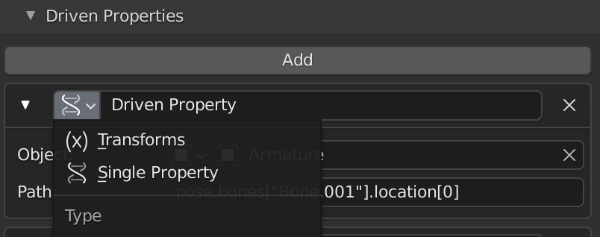
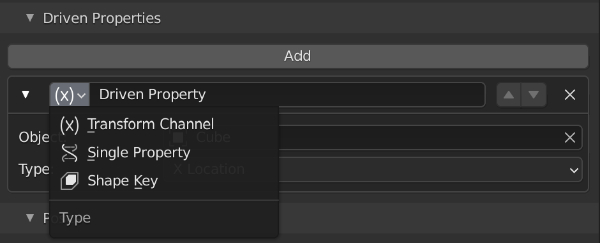
1.1.0

diff --git a/docs/user-guide/managing-drivers.md b/docs/user-guide/managing-drivers.md
@@ -6,13 +6,25 @@ The user interface for RBF Drivers is situated under the **Bone properties** tab
 !!! Note
     Each RBF driver is associated with a pose bone which acts as the driver, unlike Blender's
     normal drivers, where you associate a driver with a driven property. This is due to the
-    fact that a single RBF driver normally drives multiple driven properties.
+    fact that a single RBF driver can handle multiple driven properties.
+
+<p style="text-align:center"><img src="../../img/drivers_panel_a.jpg" alt="Empty drivers panel"/></p>
 
 If you haven't yet created any RBF drivers for the active pose bone, the RBF Drivers panel
 will simply display a button to add your first RBF driver.
 
-<p style="text-align:center"><img src="../../img/drivers_panel_a.jpg" alt="Empty drivers panel"/></p>
+<p style="text-align:center"><img src="../../img/drivers_panel_adddriver.jpg" alt="Add driver button"/></p>
 
+Clicking the button will bring up a menu where you can choose to either add a new driver, or
+if you have previously copied a driver to the copy/paste buffer, paste a copy of that driver into
+the list. There is also an option to "Paste Symmetrical" which you can use to paste a mirrored copy
+of the driver (see the section on [x-mirroring](../using-x-mirror) for further details)
+
+!!! Note
+    RBF Drivers are compatible with Blender's x-mirror option for armatures. If you want to create
+    and edit matching drivers for both sides of your rig, you should have x-mirror enabled while
+    doing so. More information on handling mirrored RBF drivers is available
+    [here](../using-x-mirror).
 ___________________________________________________________________________________________________
 
 ## The Drivers List
@@ -50,14 +62,41 @@ checking the box in the list.
 
 ___________________________________________________________________________________________________
 
+## Copying/Pasting Drivers
+
+<p style="text-align:center"><img src="../../img/drivers_panel_copyhlt.jpg" alt="Driver copy button"/></p>
+
+The copy button will copy the currently selected RBF driver into the copy/paste buffer, from which
+it can be pasted onto other bones.
+
+Once copied, you can paste a driver onto another bone by clicking on the **+** button in that
+bone's RBF Drivers panel and selecting either "Paste" or "Paste Symmetrical". In the former case
+the driver and all its settings, inputs, driven properties and poses will be copied directly to
+the new driver. When using "Paste Symmetrical", driven properties that transform bones named using
+any of Blender's standard left/right suffixes (.L, .R, .LEFT, .RIGHT, etc.) will be set to drive
+the corresponding bone on the opposite side of the armature.
+
+!!! Note
+    The "Paste Symmetrical" operator will only switch the suffix for bones on
+    [Transform Channels](../driven-properties#transform-channel). Data paths that you have defined
+    for [Single Properties](../driven-properties#single-property) are left unchanged, whether or
+    not they target a pose bone.
+
+    The operation will also not attempt to adjust pose values, so in cases where the
+    orientation of the bone on one side of the armature does not correspond to that of the bone on
+    the other side you may find that things move or rotate in the wrong direction and will need to
+    make adjustments accordingly.
+
+
+___________________________________________________________________________________________________
+
 ## Rebuilding Drivers
 
 <p style="text-align:center"><img src="../../img/drivers_panel_updatehlt.jpg" alt="Driver update button"/></p>
 
-To the right of the driver's list, the middle button is used to manually recalculate the RBF
-driver. Under normal circumstances you will not need to use this, since the RBF driver will
-automatically recalculate things in the background as you make changes. Nevertheless, because
-RBF drivers are built on Blender's native tools (drivers and custom properties) you are free
-to edit or delete them. This is strongly advised against unless you are sure you know what you
-are doing, but if you do so, whether intentionally or accidentally, you can use this button to
-force the RBF driver to recalculate itself.
+The update button is used to manually recalculate the RBF driver. Under normal circumstances you
+will not need to use this, since the RBF driver will automatically recalculate things in the
+background as you make changes. Nevertheless, because RBF drivers are built on Blender's native
+tools (drivers and custom properties) you are free to edit or delete them. This is strongly advised
+against unless you are sure you know what you are doing, but if you do so, whether intentionally or
+accidentally, you can use this button to force the RBF driver to recalculate itself.

diff --git a/docs/user-guide/driven-properties.md b/docs/user-guide/driven-properties.md
@@ -13,8 +13,9 @@ ________________________________________________________________________________
 
 <p style="text-align:center"><img src="../../img/drivenprop_type.jpg" alt="Driven property types"/></p>
 
-You can select from either **Single Property**, **Transform Channel** or **Shape Key**.
-You can also provide a useful name for the property to help you keep track of things.
+You can select from either **Single Property**, **Transform Channel** or **Shape Key**, depending
+on what type of property you wish to drive. You can also provide a useful name for the property and
+move it up or down within the stack to help you keep track of things.
 
 ### Single Property
 
@@ -29,6 +30,13 @@ context menu.
 If the data path is incorrect, or the property cannot be driven, the path will be highlighted in
 red.
 
+!!! Note
+    When using the **Copy Data Path** option from the context menu, the data path that is copied to
+    the clipboard will not include the array index for array-like Blender properties. It is
+    sometimes necessary to append it to the path yourself. For example, if you wanted to drive the
+    delta location x of an object, the data path given by Blender will be 'delta_location', whereas
+    you will want to set the driven property's data path to 'delta_transform[0]'
+
 ### Transform Channel
 
 <p style="text-align:center"><img src="../../img/drivenprop_xformchan.jpg" alt="Driven property transform channel type"/></p>
@@ -40,7 +48,7 @@ is selected the transform channel on the object itself will be driven.
 !!! Note
     **Transform Channel** properties are really just a convenience. Driving the X Location channel
     of an object is entirely equivalent to creating a **Single Property** for the "location[0]"
-    path. 
+    path.
 
 !!! Note
     Unlike [inputs](../inputs#rotation-modes), the rotation modes available for driving
@@ -49,3 +57,17 @@ is selected the transform channel on the object itself will be driven.
     driven property should almost always correspond to the rotatation mode of the object or bone
     being driven. When you select an object or bone, the correct rotation mode will be set for you
     automatically.
+
+### Shape Key
+
+<p style="text-align:center"><img src="../../img/drivenprop_shapekey.jpg" alt="Driven property shape key channel type"/></p>
+
+Selecting **Shape Key** from the dropdown menu allows you can set a mesh object and choose from
+the shape keys defined for that mesh. If you have a valid shape key selected, you can also adjust
+the value of the shape key directly from the driven property pane so you don't have to switch back
+and forth between the rig and mesh while setting [poses](../poses).
+
+!!! Note
+    It is preferred to use a driven **Shape Key** property rather than manually adding the path for
+    the shape key's value to a **Single Property**. While the latter will correctly drive the value,
+    the shape key's value property will not show as being driven in the UI (highlighted in purple).

diff --git a/docs/user-guide/faq.md b/docs/user-guide/faq.md
@@ -64,9 +64,8 @@ be used sparingly.
 Because RBF driver consolidates everything down to native Blender drivers, it needs to fit certain
 calculations into driver expressions, which are limited within Blender to having a maximum length
 of 256 characters. RBF Drivers do their very best to pack as much as possible into an expression
-by reducing floating-point precision (according to your [settings](../rbf-settings)) and
-storing values in properties and referencing them with variables where necessary. Nevertheless,
-eventually these expressions can grow beyond the aforementioned limits, in the unlikely event that
+by storing values in properties and referencing them with variables where necessary. Nevertheless,
+eventually these expressions can grow beyond the aforementioned limits. In the unlikely event that
 this happens the RBF driver will fail to update and you will be notified that an expression is too
 long. In this case you will need to reduce the number of poses and update again. This being said,
 part of the beauty of RBF drivers is that you rarely need more than a few poses to achieve a great
@@ -80,7 +79,7 @@ ________________________________________________________________________________
 
 The primary use-cases for RBF drivers are in rigging and character animation. Although other uses
 are possible, they can invariably be supported simply by creating a bone where you might otherwise
-use an empty, or giving the object an armature.
+use an empty, or parenting an object to a bone.
 
 ### Why can I only use transform properties as inputs?
 

diff --git a/docs/user-guide/using-x-mirror.md b/docs/user-guide/using-x-mirror.md
@@ -1,0 +1,29 @@
+# Using X-Mirror
+
+!!! Caution
+    X-mirroring only works while x-mirror is enabled for the armature you are working on. If you
+    want an RBF driver to be mirrored, make sure you enable it before creating the RBF driver, and
+    always have it enabled while editing the RBF driver. If you have already created a driver that
+    you want to mirror to the other side of the armature, you can use the
+    [**Paste Symmetrical** option from the **Add Driver** menu](../managing-drivers#copying-pasting-drivers)
+
+RBF Drivers have full support for Blender's x-mirror option built in, and there's nothing extra
+you have to do to get it to work, other than enable x-mirror for the armature. You'll find a
+list below of what you can expect to be automatically mirrored for RBF Drivers.
+
+* Addition/Removal of RBF drivers
+* The RBF driver's name
+* RBF settings
+* Input properties and rotation modes
+* Addition/Removal of driven properties
+* Driven property names
+* Driven property types and settings
+* Addition/Removal of poses
+* Pose names
+* Pose positions in the pose list
+
+!!! Note
+    [Manual edits to poses](../poses#viewing-and-updating-poses) are not mirrored. There is no
+    way for **RBF Drivers** to reliably predict what you want to do on the opposite side of the rig
+    when manually setting pose data values. Under these circumstances you will need to make the
+    desired change on both sides of the rig.

diff --git a/docs/user-guide/quick-start.md b/docs/user-guide/quick-start.md
@@ -40,9 +40,9 @@ create a new RBF driver.
 
 !!! Note
     You might notice that the RBF driver we just created is highlighted in red. This is just to let
-    you know that it's not yet operational because we haven't defined any
+    you know that it's not yet functional because we haven't defined any
     [inputs](../inputs), [driven properties](../driven-properties) or
-    [poses](../poses) yet. We're going to fix that next.
+    [poses](../poses). We're going to fix that next.
 
 ___________________________________________________________________________________________________
 
@@ -110,7 +110,7 @@ ________________________________________________________________________________
 ## Activating the RBF Driver
 
 By default our RBF Driver will be disabled because we want the driven properties to remain under
-our control while we set up our poses. To enable them, check the box next to the driver in
+our control while we set up our poses. To enable it, check the box next to the driver in
 the list.
 
 <p style="text-align:center">

diff --git a/docs/user-guide/getting-help.md b/docs/user-guide/getting-help.md
@@ -6,10 +6,10 @@ alternatively use the [Discord support server](https://discord.gg/y6jTAURSj2).
 ## Bugs
 
 RBF Drivers is tested on each and every release, but 3D software is complicated and from time to
-time bugs arise. If you think you hvae found one, get in touch so it can be resolved, but before
+time bugs arise. If you think you have found one, get in touch so it can be resolved, but before
 doing so please ensure that the cause of the problem lies with RBF Drivers and not elsewhere.
 
-If you're able to provide a file containing the issue, or one that illustrates it, as well as a
+If you're able, please provide a file containing the issue, or one that illustrates it, as well as a
 description.
 
 ## Suggestions

diff --git a/docs/user-guide/rbf-settings.md b/docs/user-guide/rbf-settings.md
@@ -11,7 +11,7 @@ ________________________________________________________________________________
 
 Each of the available interpolation types will change how closely the
 [driven properties](../driven-properties) stick to the [poses](../poses)
-you have defined, as well as how smoothly and quickly they transition between then. You don't
+you have defined, as well as how smoothly and quickly they transition between them. You don't
 need to know how each of them works, you can simply select which one works best for you by
 switching between them and playing around in the viewport.
 

diff --git a/docs/user-guide/releases.md b/docs/user-guide/releases.md
@@ -6,7 +6,8 @@
 
 ## 1.1.0 (February 01 2021)
 
-- Added support for x-mirror.
-- Added *Shape Key* driven property type.
-- Driven properties can now be moved up/down within the list.
-- Other minor fixes.
+- [Added support for x-mirror](../using-x-mirror)
+- [Added ability to copy/paste RBF drivers, optionally accounting for symmetry](../managing-drivers#copying-pasting-drivers)
+- [Added *Shape Key* driven property type](../driven-properties#shape-key)
+- [Driven properties can now be moved up/down within the stack](../driven-properties)
+  

diff --git a/docs/user-guide/poses.md b/docs/user-guide/poses.md
@@ -34,7 +34,7 @@ and the RBF driver will be automatically recalculated.
 
 ___________________________________________________________________________________________________
 
-## Viewing and Updating poses
+## Viewing and Updating Poses
 
 <p style="text-align:center"><img src="../../img/poses_panel_viewapply.jpg" alt="View/apply pose buttons"/></p>
 
